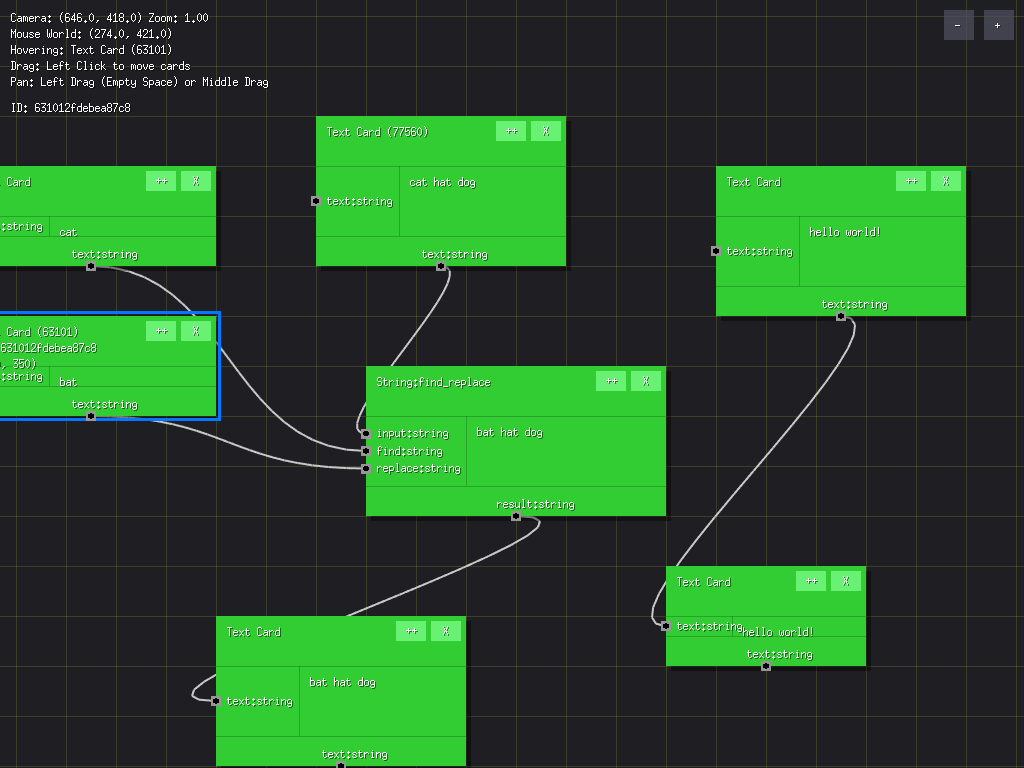
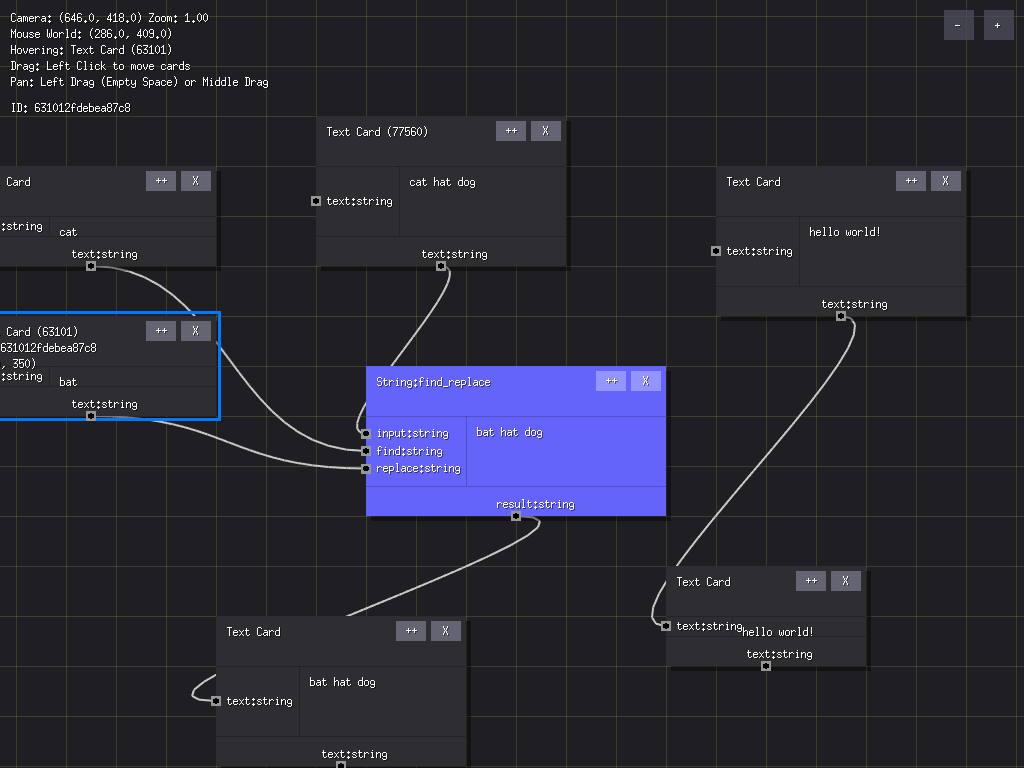
feat: Add success flash feature to cards and update color handling

diff --git a/card.go b/card.go
@@ -25,17 +25,18 @@ type Subscription struct {
 
 // Card represents a node on the canvas
 type Card struct {
-	ID            string
-	X, Y          float64
-	Width, Height float64
-	Color         color.Color
-	Title         string
-	Text          string
-	IsEditing     bool
-	IsCommit      bool
-	Inputs        []Port
-	Outputs       []Port
-	Subscribers   []Subscription // Cards subscribed to this card's output
+	ID               string
+	X, Y             float64
+	Width, Height    float64
+	Color            color.Color
+	Title            string
+	Text             string
+	IsEditing        bool
+	IsCommit         bool
+	Inputs           []Port
+	Outputs          []Port
+	Subscribers      []Subscription // Cards subscribed to this card's output
+	LastSuccessFlash time.Time      // When the last success flash occurred
 }
 
 func (g *Game) AddTextCard(x, y float64) *Card {
@@ -110,8 +111,13 @@ func (c *Card) drawBody(screen *ebiten.Image, g *Game, sx, sy, sw, sh float64) {
 	// Shadow
 	zoom := g.camera.Zoom
 	vector.DrawFilledRect(screen, float32(sx+ShadowOffset*zoom), float32(sy+ShadowOffset*zoom), float32(sw), float32(sh), ColorShadow, false)
-	// Body
-	vector.DrawFilledRect(screen, float32(sx), float32(sy), float32(sw), float32(sh), c.Color, false)
+
+	// Body color with success flash (200ms)
+	bodyColor := c.Color
+	if time.Since(c.LastSuccessFlash) < 200*time.Millisecond {
+		bodyColor = color.RGBA{50, 205, 50, 255} // Success green
+	}
+	vector.DrawFilledRect(screen, float32(sx), float32(sy), float32(sw), float32(sh), bodyColor, false)
 }
 
 func (c *Card) drawSelectionBorder(screen *ebiten.Image, g *Game, hovered bool, sx, sy, sw, sh float64) {

diff --git a/engine.go b/engine.go
@@ -189,8 +189,8 @@ func (e *Engine) executeCard(c *Card) {
 	// 5. Log execution result
 	fmt.Printf("[%s] Result: %v\n", c.Title, result)
 
-	// 6. Success color
-	c.Color = color.RGBA{50, 205, 50, 255}
+	// 6. Success flash (200ms)
+	c.LastSuccessFlash = time.Now()
 
 	// 7. Store in cache
 	e.ExecutionCache[c.ID] = CacheEntry{
